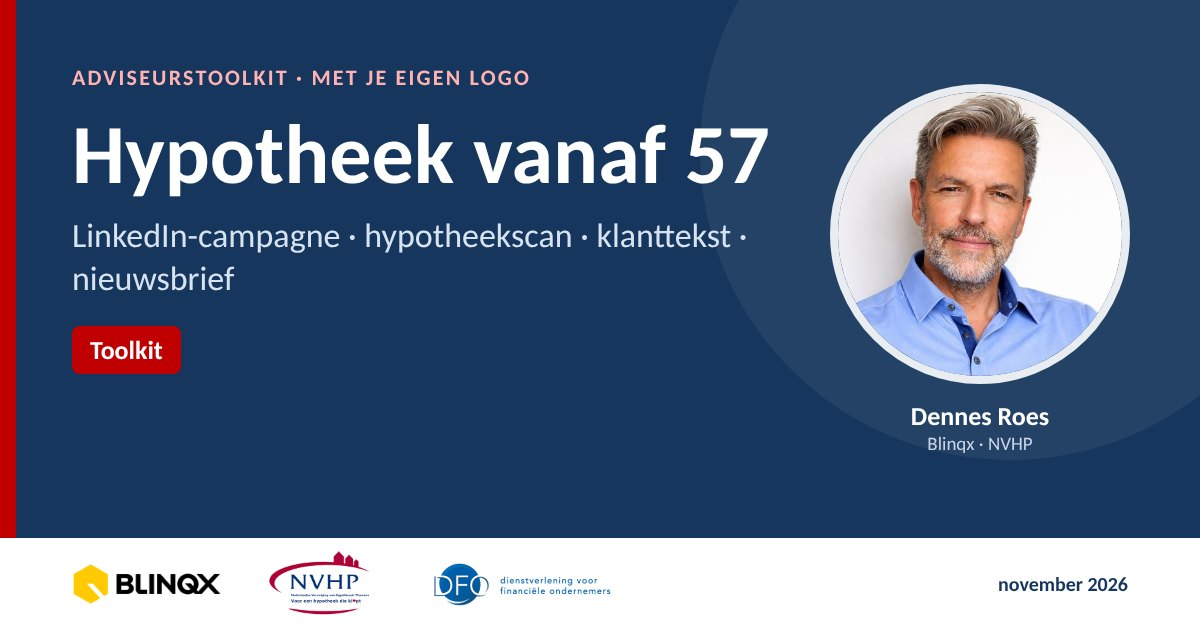
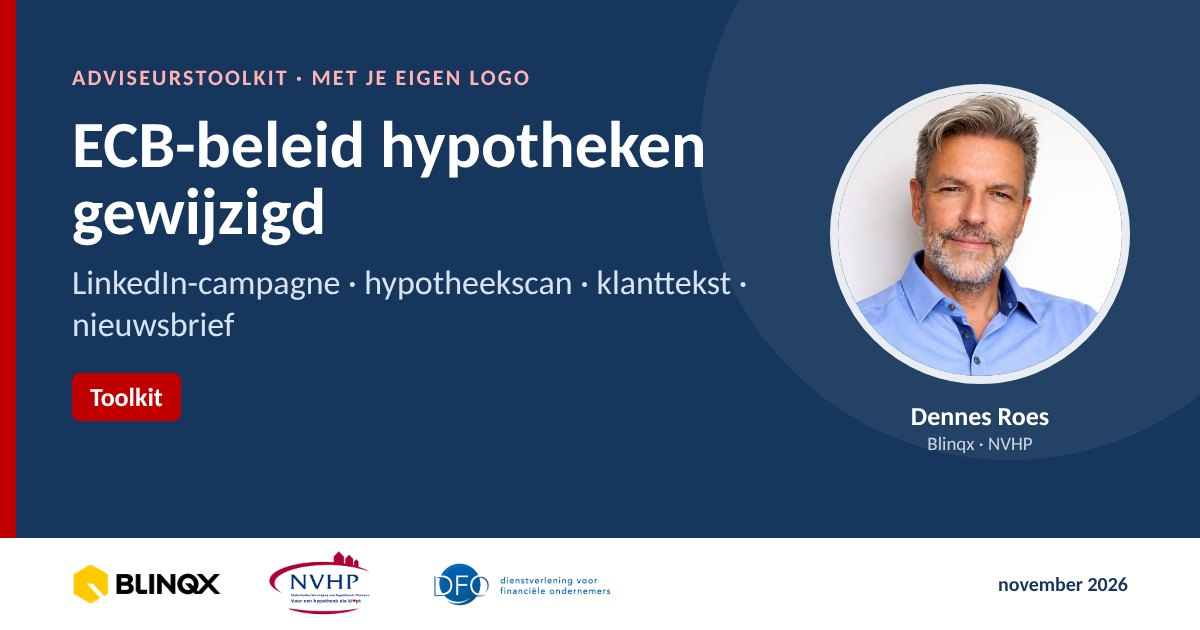
Sitenaam en titels: 'ECB-beleid hypotheken gewijzigd' (startpagina, toolkit, presentatie, deelafbeeldingen)
Claude-Session: https://claude.ai/code/session_01XDsUcy3sVZE5cLpShRgHsC

Changed region(s): [[0.0617, 0.181, 0.6475, 0.3921], [0.0617, 0.4222, 0.6167, 0.6937]]

diff --git a/adviseurstoolkit.html b/adviseurstoolkit.html
@@ -5,7 +5,7 @@
 <meta name="color-scheme" content="only light">
 <meta name="theme-color" content="#17365D">
 <meta name="viewport" content="width=device-width, initial-scale=1">
-<title>Adviseurstoolkit 57</title>
+<title>Adviseurstoolkit ECB-beleid</title>
 <meta name="description" content="Toolkit voor hypotheekadviseurs: LinkedIn-campagne, jaarlijkse informatie-update en nazorgscan, en klanttekst 'Hypotheek vanaf 57 jaar', met eigen logo en kantoorgegevens.">
 <link rel="icon" href="/favicon.svg" type="image/svg+xml">
 <link rel="icon" href="/favicon-32.png" sizes="32x32" type="image/png">
@@ -14,9 +14,9 @@
 <meta name="author" content="Dennes Roes">
 <link rel="canonical" href="https://dennes-roes.nl/adviseurstoolkit.html">
 <meta property="og:type" content="website">
-<meta property="og:site_name" content="Hypotheek vanaf 57">
+<meta property="og:site_name" content="ECB-beleid hypotheken gewijzigd">
 <meta property="og:locale" content="nl_NL">
-<meta property="og:title" content="Adviseurstoolkit: hypotheek vanaf 57">
+<meta property="og:title" content="Adviseurstoolkit: ECB-beleid hypotheken gewijzigd">
 <meta property="og:description" content="LinkedIn-campagne, hypotheekscan, klanttekst en nieuwsbrief, met je eigen logo en kantoorgegevens. Voor hypotheekadviseurs.">
 <meta property="og:url" content="https://dennes-roes.nl/adviseurstoolkit.html">
 <meta property="og:image" content="https://dennes-roes.nl/og-toolkit.jpg">
@@ -24,9 +24,9 @@
 <meta property="og:image:type" content="image/jpeg">
 <meta property="og:image:width" content="1200">
 <meta property="og:image:height" content="630">
-<meta property="og:image:alt" content="Adviseurstoolkit hypotheek vanaf 57: LinkedIn-campagne, hypotheekscan, klanttekst en nieuwsbrief">
+<meta property="og:image:alt" content="Adviseurstoolkit ECB-beleid hypotheken gewijzigd: LinkedIn-campagne, hypotheekscan, klanttekst en nieuwsbrief">
 <meta name="twitter:card" content="summary_large_image">
-<meta name="twitter:title" content="Adviseurstoolkit: hypotheek vanaf 57">
+<meta name="twitter:title" content="Adviseurstoolkit: ECB-beleid hypotheken gewijzigd">
 <meta name="twitter:description" content="LinkedIn-campagne, hypotheekscan, klanttekst en nieuwsbrief, met je eigen logo en kantoorgegevens. Voor hypotheekadviseurs.">
 <meta name="twitter:image" content="https://dennes-roes.nl/og-toolkit.jpg">
 <style>
@@ -154,7 +154,7 @@ a.b:hover,button.b:hover{filter:brightness(1.12)}
 }
 @media (max-width:820px){.grid{grid-template-columns:1fr}.post{grid-template-columns:1fr}#art{padding:20px 16px}}
 </style>
-<script type="application/ld+json">{"@context": "https://schema.org", "@type": "WebApplication", "name": "Adviseurstoolkit: hypotheek vanaf 57", "description": "LinkedIn-campagne, hypotheekscan, klanttekst en nieuwsbrief voor hypotheekadviseurs, met eigen logo.", "url": "https://dennes-roes.nl/adviseurstoolkit.html", "inLanguage": "nl-NL", "author": {"@type": "Person", "name": "Dennes Roes"}, "isPartOf": {"@type": "WebSite", "name": "Hypotheek vanaf 57", "url": "https://dennes-roes.nl/"}, "dateModified": "2026-11-18", "image": "https://dennes-roes.nl/og-toolkit.jpg", "applicationCategory": "BusinessApplication", "operatingSystem": "Web", "offers": {"@type": "Offer", "price": "24.95", "priceCurrency": "EUR", "description": "Eenmalig; gratis voor bezoekers van de informatieavonden van 24, 25 en 26 november 2026", "priceSpecification": {"@type": "PriceSpecification", "price": "24.95", "priceCurrency": "EUR", "valueAddedTaxIncluded": false}}}</script>
+<script type="application/ld+json">{"@context": "https://schema.org", "@type": "WebApplication", "name": "Adviseurstoolkit: ECB-beleid hypotheken gewijzigd", "description": "LinkedIn-campagne, hypotheekscan, klanttekst en nieuwsbrief voor hypotheekadviseurs, met eigen logo.", "url": "https://dennes-roes.nl/adviseurstoolkit.html", "inLanguage": "nl-NL", "author": {"@type": "Person", "name": "Dennes Roes"}, "isPartOf": {"@type": "WebSite", "name": "ECB-beleid hypotheken gewijzigd", "url": "https://dennes-roes.nl/"}, "dateModified": "2026-11-18", "image": "https://dennes-roes.nl/og-toolkit.jpg", "applicationCategory": "BusinessApplication", "operatingSystem": "Web", "offers": {"@type": "Offer", "price": "24.95", "priceCurrency": "EUR", "description": "Eenmalig; gratis voor bezoekers van de informatieavonden van 24, 25 en 26 november 2026", "priceSpecification": {"@type": "PriceSpecification", "price": "24.95", "priceCurrency": "EUR", "valueAddedTaxIncluded": false}}}</script>
 <style>
 html.locked body > *:not(#gate){display:none!important}
 #gate{display:none}
@@ -231,7 +231,7 @@ html.locked #gate{display:flex;min-height:100vh;align-items:center;justify-conte
 </script>
 <header><div class="hwrap">
   <p style="margin:0 0 4px;font-size:14px"><a href="index.html" style="color:#c9d6e6">← Start</a> · <a href="presentatie.html" style="color:#c9d6e6">Presentatie</a></p>
-  <h1>Adviseurstoolkit · hypotheek vanaf 57 jaar</h1>
+  <h1>Adviseurstoolkit · ECB-beleid hypotheken gewijzigd</h1>
   <p>Eerste doelgroep: klanten van 54 tot en met 57 jaar · informatieronde november 2026, organisatie DFO BV</p>
   <nav role="tablist">
     <button role="tab" data-t="t0" aria-selected="true">★ Alle materialen</button>

diff --git a/index.html b/index.html
@@ -5,7 +5,7 @@
 <meta name="color-scheme" content="only light">
 <meta name="theme-color" content="#17365D">
 <meta name="viewport" content="width=device-width, initial-scale=1">
-<title>Hypotheek vanaf 57</title>
+<title>ECB-beleid hypotheken gewijzigd</title>
 <meta name="description" content="Presentatie en adviseurstoolkit bij de informatieronde acceptatievoorwaarden hypotheken 2026 (organisatie DFO BV): bedrijfsvoering, eerste doelgroep 54–57 jaar en marketingmaterialen.">
 <link rel="icon" href="/favicon.svg" type="image/svg+xml">
 <link rel="icon" href="/favicon-32.png" sizes="32x32" type="image/png">
@@ -14,9 +14,9 @@
 <meta name="author" content="Dennes Roes">
 <link rel="canonical" href="https://dennes-roes.nl/">
 <meta property="og:type" content="website">
-<meta property="og:site_name" content="Hypotheek vanaf 57">
+<meta property="og:site_name" content="ECB-beleid hypotheken gewijzigd">
 <meta property="og:locale" content="nl_NL">
-<meta property="og:title" content="Hypotheek vanaf 57: van regelwijziging naar kantoorproces">
+<meta property="og:title" content="ECB-beleid hypotheken gewijzigd: van regelwijziging naar kantoorproces">
 <meta property="og:description" content="Presentatie van Dennes Roes en een adviseurstoolkit met eigen logo: LinkedIn-campagne, hypotheekscan, klanttekst en nieuwsbrief. Informatieronde november 2026, organisatie DFO BV.">
 <meta property="og:url" content="https://dennes-roes.nl/">
 <meta property="og:image" content="https://dennes-roes.nl/og-start.jpg">
@@ -24,9 +24,9 @@
 <meta property="og:image:type" content="image/jpeg">
 <meta property="og:image:width" content="1200">
 <meta property="og:image:height" content="630">
-<meta property="og:image:alt" content="Hypotheek vanaf 57: presentatie en adviseurstoolkit, met Dennes Roes en de logo’s van Blinqx, NVHP en DFO">
+<meta property="og:image:alt" content="ECB-beleid hypotheken gewijzigd: presentatie en adviseurstoolkit, met Dennes Roes en de logo’s van Blinqx, NVHP en DFO">
 <meta name="twitter:card" content="summary_large_image">
-<meta name="twitter:title" content="Hypotheek vanaf 57: van regelwijziging naar kantoorproces">
+<meta name="twitter:title" content="ECB-beleid hypotheken gewijzigd: van regelwijziging naar kantoorproces">
 <meta name="twitter:description" content="Presentatie van Dennes Roes en een adviseurstoolkit met eigen logo: LinkedIn-campagne, hypotheekscan, klanttekst en nieuwsbrief. Informatieronde november 2026, organisatie DFO BV.">
 <meta name="twitter:image" content="https://dennes-roes.nl/og-start.jpg">
 <style>
@@ -164,7 +164,7 @@ footer{color:var(--mute);font-size:14px;padding:28px 0 40px}
    "@type": "WebSite",
    "@id": "https://dennes-roes.nl/#website",
    "url": "https://dennes-roes.nl/",
-   "name": "Hypotheek vanaf 57",
+   "name": "ECB-beleid hypotheken gewijzigd",
    "inLanguage": "nl-NL",
    "description": "Presentatie en adviseurstoolkit over het aangescherpte hypotheekbeleid voor 50-plussers.",
    "publisher": {
@@ -175,7 +175,7 @@ footer{color:var(--mute);font-size:14px;padding:28px 0 40px}
    "@type": "WebPage",
    "@id": "https://dennes-roes.nl/#webpage",
    "url": "https://dennes-roes.nl/",
-   "name": "Hypotheek vanaf 57: van regelwijziging naar kantoorproces",
+   "name": "ECB-beleid hypotheken gewijzigd: van regelwijziging naar kantoorproces",
    "isPartOf": {
     "@id": "https://dennes-roes.nl/#website"
    },
@@ -394,7 +394,7 @@ footer{color:var(--mute);font-size:14px;padding:28px 0 40px}
 <body>
 <header class="hero"><div class="wrap">
   <p class="kick">Informatieronde acceptatievoorwaarden hypotheken 2026</p>
-  <h1>Hypotheek vanaf 57:<br>van regelwijziging naar kantoorproces</h1>
+  <h1>ECB-beleid hypotheken gewijzigd:<br>van regelwijziging naar kantoorproces</h1>
   <p class="lead">Banken kijken strenger naar het pensioen. Wat betekent dat voor je portefeuille, je bedrijfsvoering en je klantcommunicatie? Begin bij je eerste doelgroep: klanten van 54 tot en met 57 jaar.</p>
 </div></header>
 

diff --git a/presentatie.html b/presentatie.html
@@ -14,7 +14,7 @@
 <meta name="author" content="Dennes Roes">
 <link rel="canonical" href="https://dennes-roes.nl/presentatie.html">
 <meta property="og:type" content="website">
-<meta property="og:site_name" content="Hypotheek vanaf 52">
+<meta property="og:site_name" content="ECB-beleid hypotheken gewijzigd">
 <meta property="og:locale" content="nl_NL">
 <meta property="og:title" content="Presentatie Dennes Roes: je grootste klantgroep denkt na">
 <meta property="og:description" content="Presentatie van Dennes Roes: de 55-plusser, zijn woonwensen en jouw kantoor. Vijf vragen in dertig minuten, met cijfers uit het 55-plus Woonwensenonderzoek, belscript, software en verdienmodel.">
@@ -24,7 +24,7 @@
 <meta property="og:image:height" content="630">
 <meta name="twitter:card" content="summary_large_image">
 <meta name="twitter:image" content="https://dennes-roes.nl/og-presentatie.jpg">
-<script type="application/ld+json">{"@context": "https://schema.org", "@type": "PresentationDigitalDocument", "name": "Je grootste klantgroep denkt na. Wie zet de eerste stap?", "description": "Presentatie van Dennes Roes: de 55-plusser, zijn woonwensen en jouw kantoor. Vijf vragen in dertig minuten, met cijfers uit het 55-plus Woonwensenonderzoek, belscript, software en verdienmodel.", "url": "https://dennes-roes.nl/presentatie.html", "inLanguage": "nl-NL", "author": {"@type": "Person", "name": "Dennes Roes"}, "isPartOf": {"@type": "WebSite", "name": "Hypotheek vanaf 52", "url": "https://dennes-roes.nl/"}, "dateModified": "2026-11-27", "image": "https://dennes-roes.nl/presentatie/dia-01.jpg", "encoding": [{"@type": "MediaObject", "encodingFormat": "application/vnd.openxmlformats-officedocument.presentationml.presentation", "contentUrl": "https://dennes-roes.nl/presentatie-dennes-roes.pptx"}, {"@type": "MediaObject", "encodingFormat": "application/pdf", "contentUrl": "https://dennes-roes.nl/presentatie-dennes-roes.pdf"}]}</script>
+<script type="application/ld+json">{"@context": "https://schema.org", "@type": "PresentationDigitalDocument", "name": "Je grootste klantgroep denkt na. Wie zet de eerste stap?", "description": "Presentatie van Dennes Roes: de 55-plusser, zijn woonwensen en jouw kantoor. Vijf vragen in dertig minuten, met cijfers uit het 55-plus Woonwensenonderzoek, belscript, software en verdienmodel.", "url": "https://dennes-roes.nl/presentatie.html", "inLanguage": "nl-NL", "author": {"@type": "Person", "name": "Dennes Roes"}, "isPartOf": {"@type": "WebSite", "name": "ECB-beleid hypotheken gewijzigd", "url": "https://dennes-roes.nl/"}, "dateModified": "2026-11-27", "image": "https://dennes-roes.nl/presentatie/dia-01.jpg", "encoding": [{"@type": "MediaObject", "encodingFormat": "application/vnd.openxmlformats-officedocument.presentationml.presentation", "contentUrl": "https://dennes-roes.nl/presentatie-dennes-roes.pptx"}, {"@type": "MediaObject", "encodingFormat": "application/pdf", "contentUrl": "https://dennes-roes.nl/presentatie-dennes-roes.pdf"}]}</script>
 <style>
 :root{--navy:#17365D;--red:#C00000;--bg:#e9eef4}
 *{box-sizing:border-box;margin:0;padding:0}

diff --git a/README.md b/README.md
@@ -1,11 +1,11 @@
-# ECB-beleid banken: van regelwijziging naar kantoorproces
+# ECB-beleid hypotheken gewijzigd: van regelwijziging naar kantoorproces
 
 Materiaal voor de informatieronde acceptatievoorwaarden hypotheken (november 2026, organisatie DFO BV).
 
 - **[Startpagina](https://dennes-roes.nl/)** (`index.html`): kies Presentatie of Toolkit.
 - **[Presentatie Dennes Roes](https://dennes-roes.nl/presentatie.html)** (`presentatie.html`): "Je grootste klantgroep denkt na. Wie zet de eerste stap?", 25 dia's, ook als PowerPoint en PDF. Eerdere versie: `presentatie-bedrijfsvoering.html`.
 - **[Alle marketingmaterialen](https://dennes-roes.nl/adviseurstoolkit.html#overzicht)**: overzicht met kalender en checklist vóór publicatie.
-- **[Adviseurstoolkit](https://dennes-roes.nl/adviseurstoolkit.html)** (`adviseurstoolkit.html`): kantoorgegevens en logo, LinkedIn-campagne, jaarlijkse update en nazorgscan, klanttekst "Hypotheek vanaf 52 jaar" en nieuwsbrief.
+- **[Adviseurstoolkit](https://dennes-roes.nl/adviseurstoolkit.html)** (`adviseurstoolkit.html`): kantoorgegevens en logo, LinkedIn-campagne, jaarlijkse update en nazorgscan, klanttekst "Hypotheek vanaf 57 jaar" en nieuwsbrief.
 
 Alles is standalone HTML: geen build-step, geen externe API's en geen opslag in de browser.
 Stand van zaken: 18-11-2026. Bankbeleid kan wijzigen. Dit is algemene informatie, geen juridisch of fiscaal advies.
